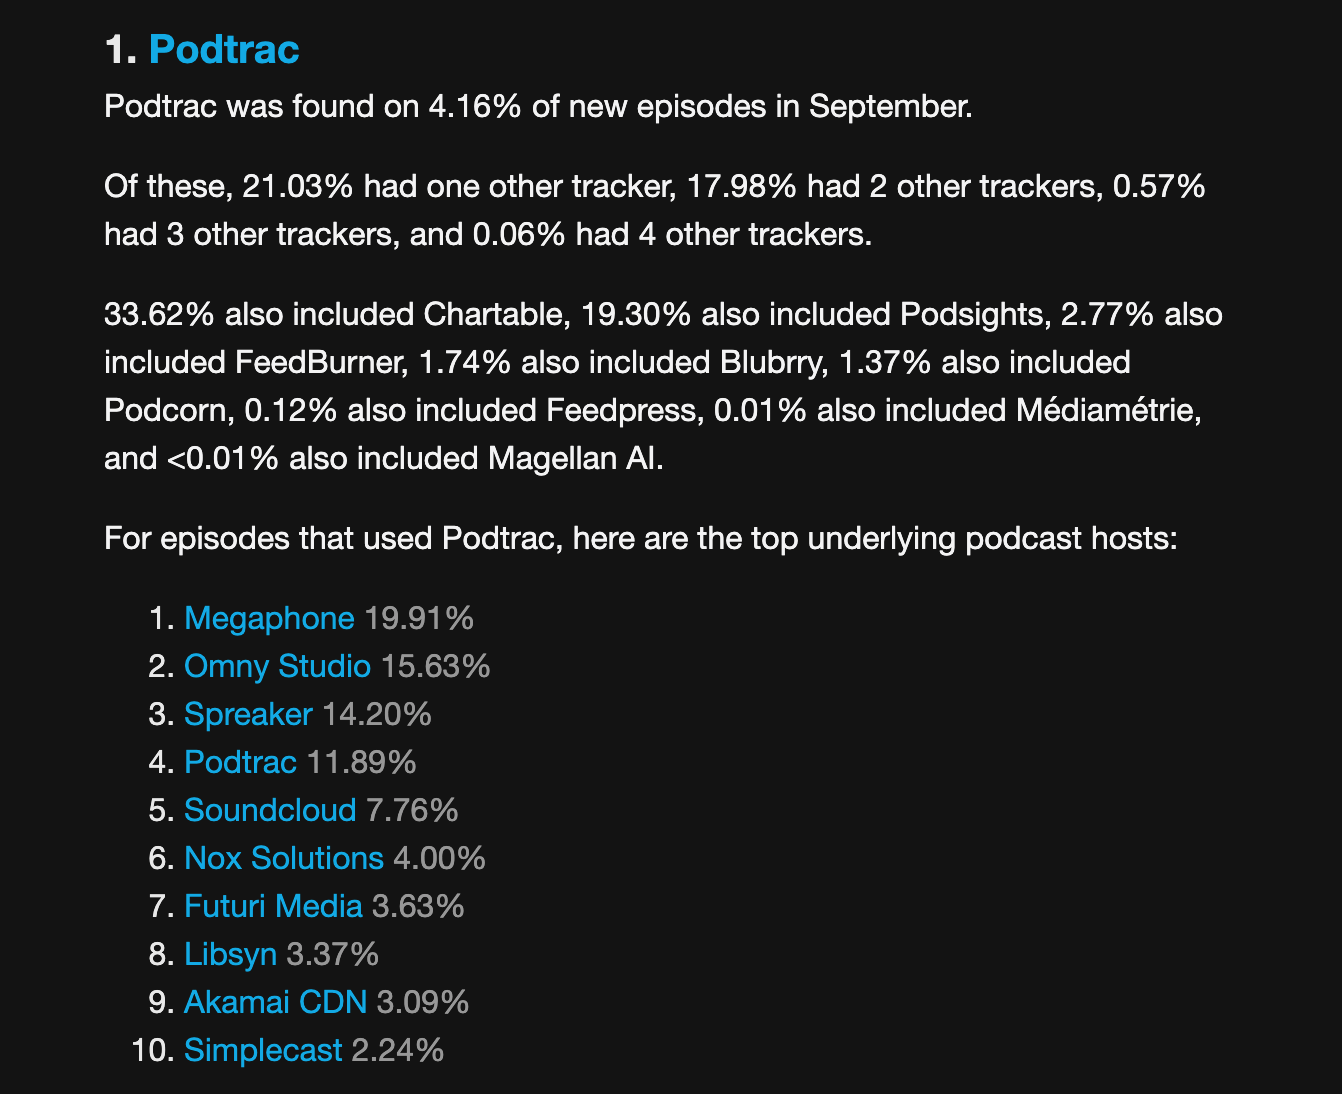
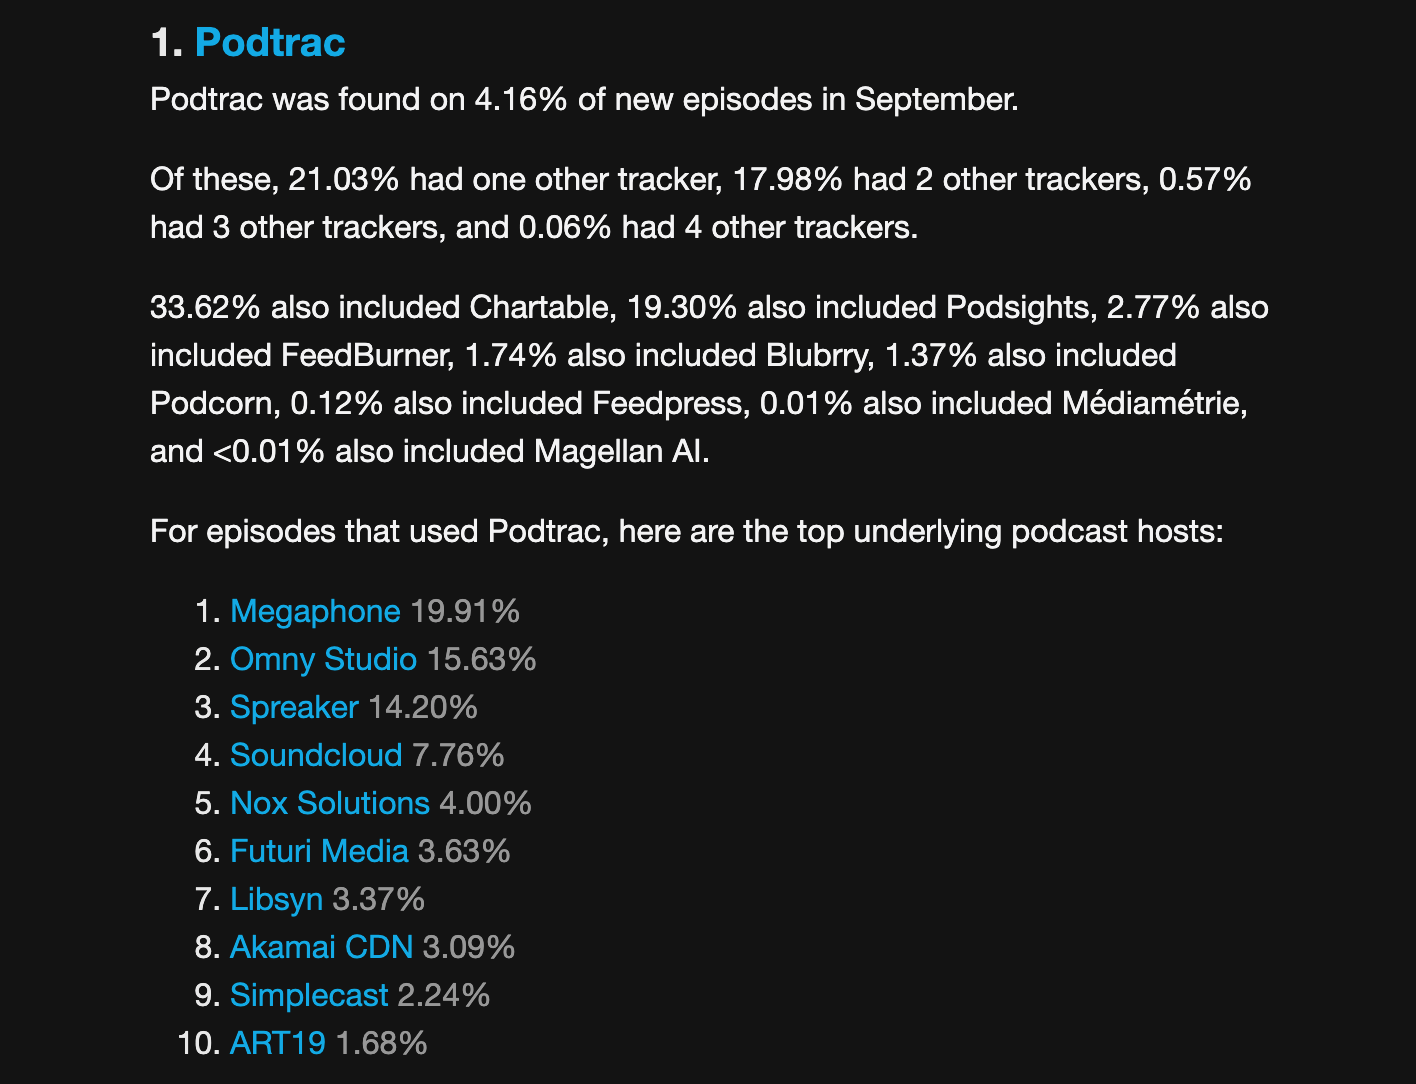
Updated trackers post, removed podtrac as host under itself, even when it's the last media file in the chain.

diff --git a/content/posts/podcast-trackers-by-episode-share.md b/content/posts/podcast-trackers-by-episode-share.md
@@ -52,13 +52,13 @@ For episodes that used Podtrac, here are the top underlying podcast hosts:
 1. {{< a "https://www.megaphone.fm/" "Megaphone" >}} {{< span "weak" "19.91%" >}}
 2. {{< a "https://omnystudio.com/learn" "Omny Studio" >}} {{< span "weak" "15.63%" >}}
 3. {{< a "https://www.spreaker.com/" "Spreaker" >}} {{< span "weak" "14.20%" >}}
-4. {{< a "https://analytics.podtrac.com/" "Podtrac" >}} {{< span "weak" "11.89%" >}}
-5. {{< a "https://soundcloud.com/stream" "Soundcloud" >}} {{< span "weak" "7.76%" >}}
-6. {{< a "https://noxsolutions.com/podcasting" "Nox Solutions" >}} {{< span "weak" "4.00%" >}}
-7. {{< a "https://futurimedia.com/" "Futuri Media" >}} {{< span "weak" "3.63%" >}}
-8. {{< a "https://www.libsyn.com/" "Libsyn" >}} {{< span "weak" "3.37%" >}}
-9. {{< a "https://www.akamai.com/" "Akamai CDN" >}} {{< span "weak" "3.09%" >}}
-10. {{< a "https://simplecast.com/" "Simplecast" >}} {{< span "weak" "2.24%" >}}
+4. {{< a "https://soundcloud.com/stream" "Soundcloud" >}} {{< span "weak" "7.76%" >}}
+5. {{< a "https://noxsolutions.com/podcasting" "Nox Solutions" >}} {{< span "weak" "4.00%" >}}
+6. {{< a "https://futurimedia.com/" "Futuri Media" >}} {{< span "weak" "3.63%" >}}
+7. {{< a "https://www.libsyn.com/" "Libsyn" >}} {{< span "weak" "3.37%" >}}
+8. {{< a "https://www.akamai.com/" "Akamai CDN" >}} {{< span "weak" "3.09%" >}}
+9. {{< a "https://simplecast.com/" "Simplecast" >}} {{< span "weak" "2.24%" >}}
+10. {{< a "http://www.art19.com/" "ART19" >}} {{< span "weak" "1.68%" >}}
 ---
 
 ### 2. [Chartable](https://chartable.com/)
@@ -186,7 +186,6 @@ For episodes that used Médiamétrie, here are the top underlying podcast hosts:
 3. {{< a "https://www.europe1.fr/" "Europe 1" >}} {{< span "weak" "24.84%" >}}
 4. {{< a "https://www.akamai.com/" "Akamai CDN" >}} {{< span "weak" "12.67%" >}}
 5. {{< a "https://www.ausha.co/" "Ausha" >}} {{< span "weak" "7.72%" >}}
-6. {{< a "https://www.mediametrie.fr/" "Médiamétrie" >}} {{< span "weak" "0.40%" >}}
 ---
 
 ### 8. [Feedpress](https://feedpress.com/)
@@ -251,6 +250,9 @@ to check for new episodes.
 
 And thanks to the [Open Podcast Analytics Working Group](https://github.com/opawg) for maintaining a list of media url patterns and analytics services patterns.
 We've incorporated these patterns along with some of our own to come up with the host and analytics service identification and metadata for this ranking.
+
+---
+*Updated 2021-10-13, to remove Podtrac as a host under itself, even when it is the last media file url in the redirect chain*
 
 ---
 *[Modify](https://github.com/skymethod/livewire-web/blob/master/content/posts/podcast-trackers-by-episode-share.md) this page, [Discuss](https://github.com/skymethod/livewire-web/discussions) this page*
